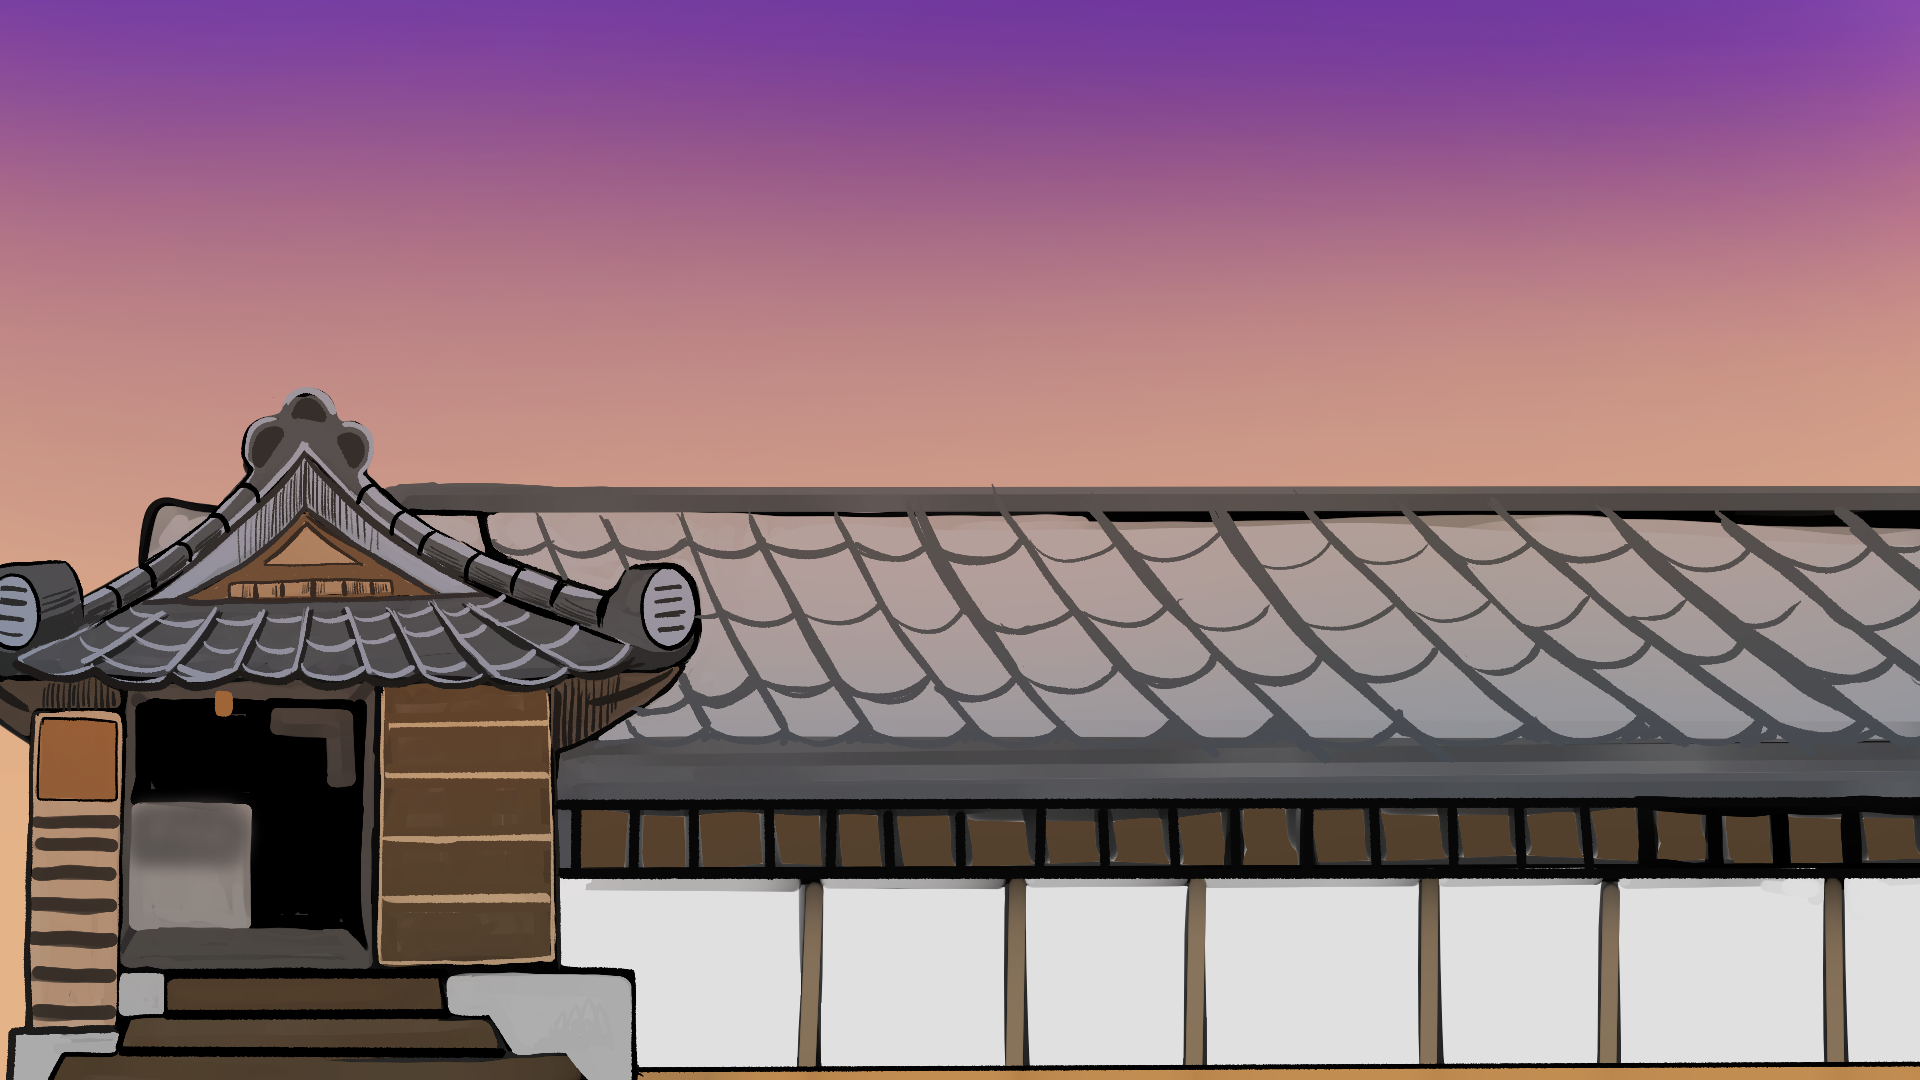
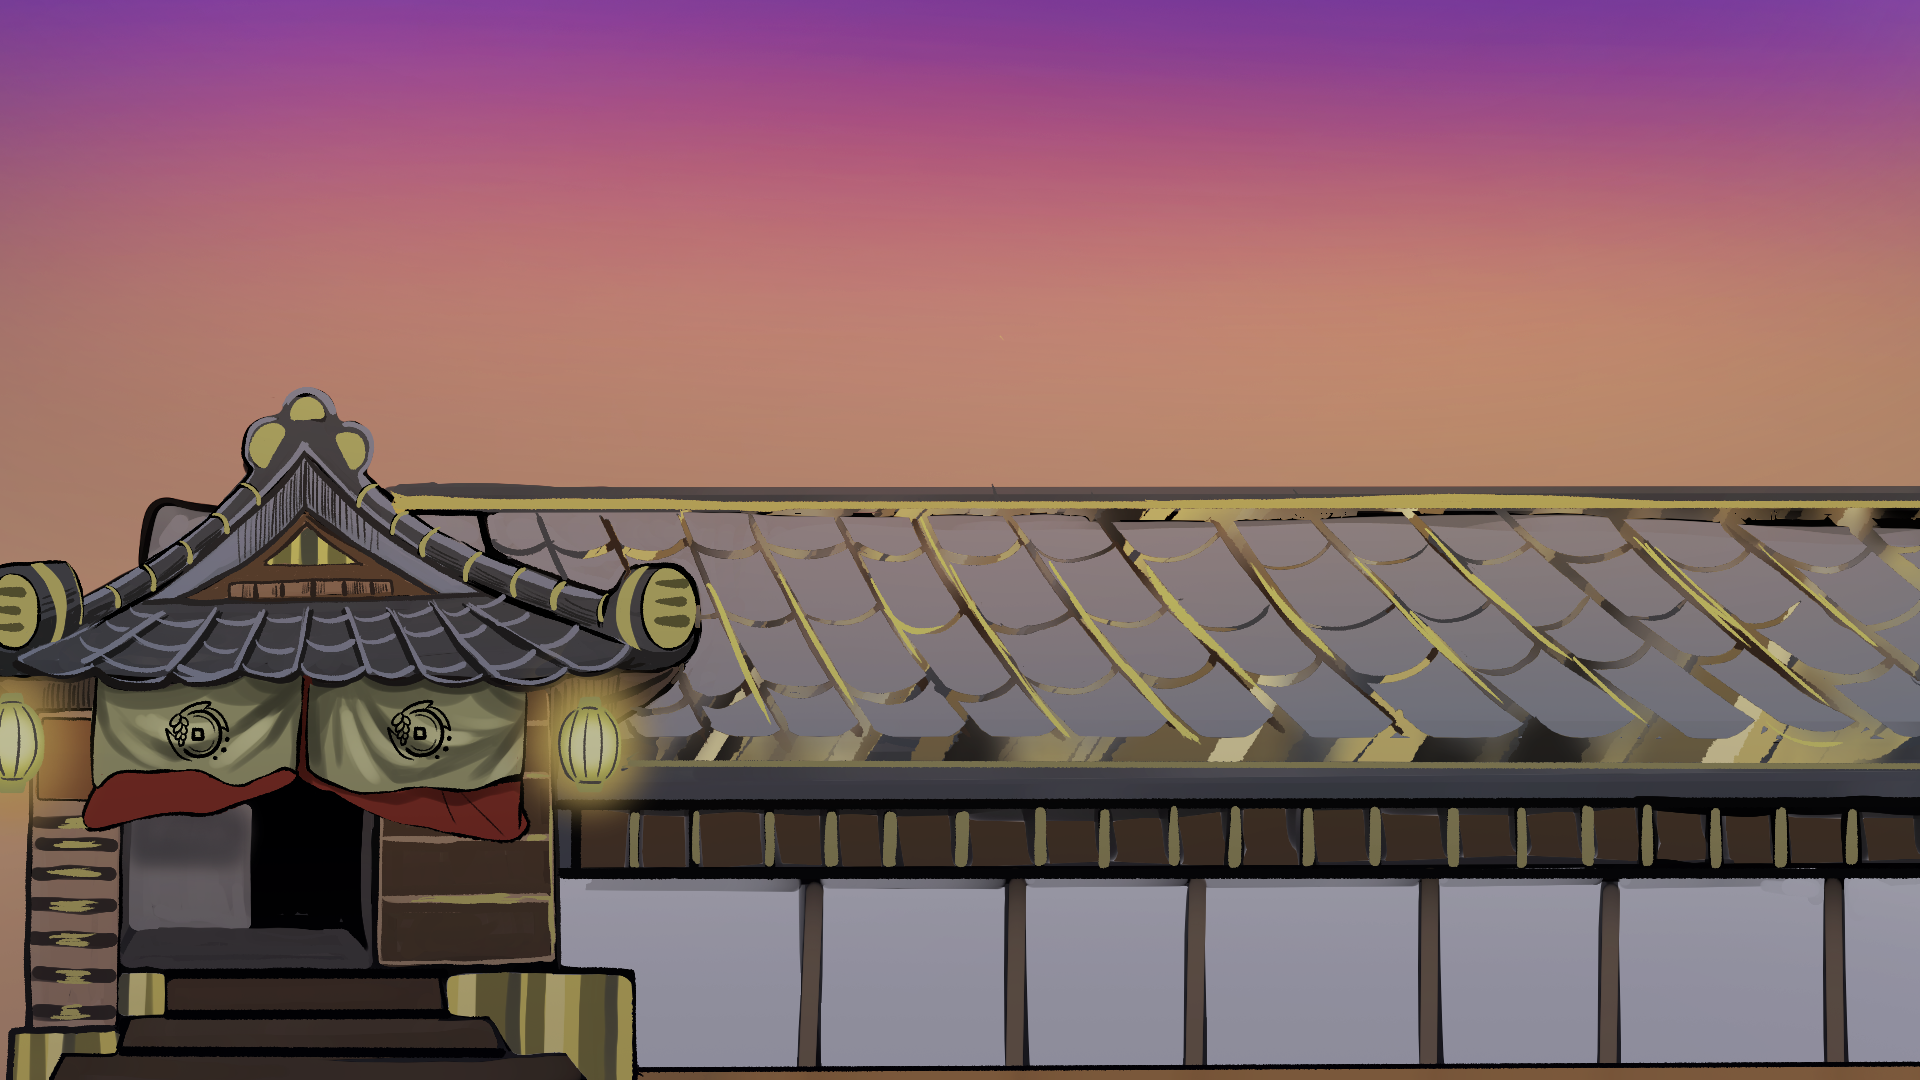
アイコン、背景更新版

diff --git a/AppFrame/source/Resources.h b/AppFrame/source/Resources.h
@@ -67,6 +67,8 @@ namespace ui
   inline constexpr const char* Dash_Icon_BK = "res/UI/Dash_Icon_BK.png";
   inline constexpr const char* Deguti = "res/UI/Deguti.png";
   inline constexpr const char* DegutiBK = "res/UI/DegutiBK.png";
+  inline constexpr const char* Gameclear = "res/UI/Gameclear.png";
+  inline constexpr const char* Gamestart = "res/UI/Gamestart.png";
   inline constexpr const char* Item_Makimono = "res/UI/Item_Makimono.png";
   inline constexpr const char* KeyOpen = "res/UI/KeyOpen.png";
   inline constexpr const char* Makimono = "res/UI/Makimono.png";
@@ -93,6 +95,7 @@ namespace ui
   inline constexpr const char* UI_Hito = "res/UI/UI_Hito.png";
   inline constexpr const char* UI_HitoBK = "res/UI/UI_HitoBK.png";
   inline constexpr const char* UI_Mono = "res/UI/UI_Mono.png";
+  inline constexpr const char* UI_Tanubito_no = "res/UI/UI_Tanubito_no.png";
   inline constexpr const char* UI_nokori = "res/UI/UI_nokori.png";
   inline constexpr const char* UI_nokoriBK = "res/UI/UI_nokoriBK.png";
   inline constexpr const char* UI_waru = "res/UI/UI_waru.png";

diff --git a/Game/Game/source/henshinui.h b/Game/Game/source/henshinui.h
@@ -6,7 +6,7 @@ namespace henshin
 	static constexpr auto HENSHIN_X = 1400; //1400
 	static constexpr auto HENSHIN_Y = 800; //800
 	static constexpr auto TANUBITO_X = 1559;
-	static constexpr auto TANUBITO_Y = 16;
+	static constexpr auto TANUBITO_Y = 847;
 	static constexpr auto TANUMONO_X = 1530;
 	static constexpr auto TANUMONO_Y = 847;
 }
